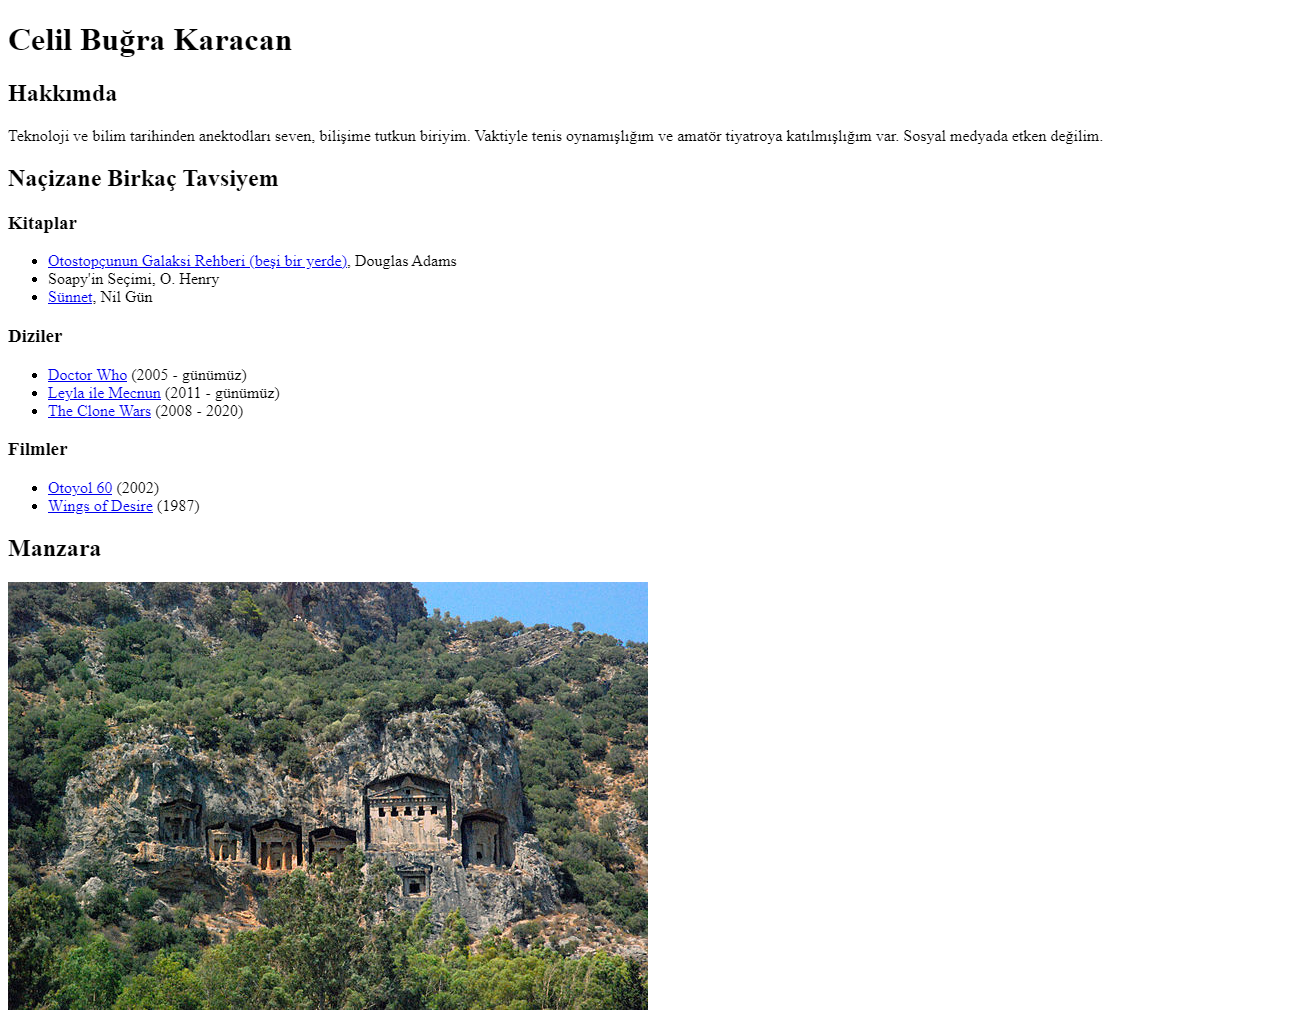
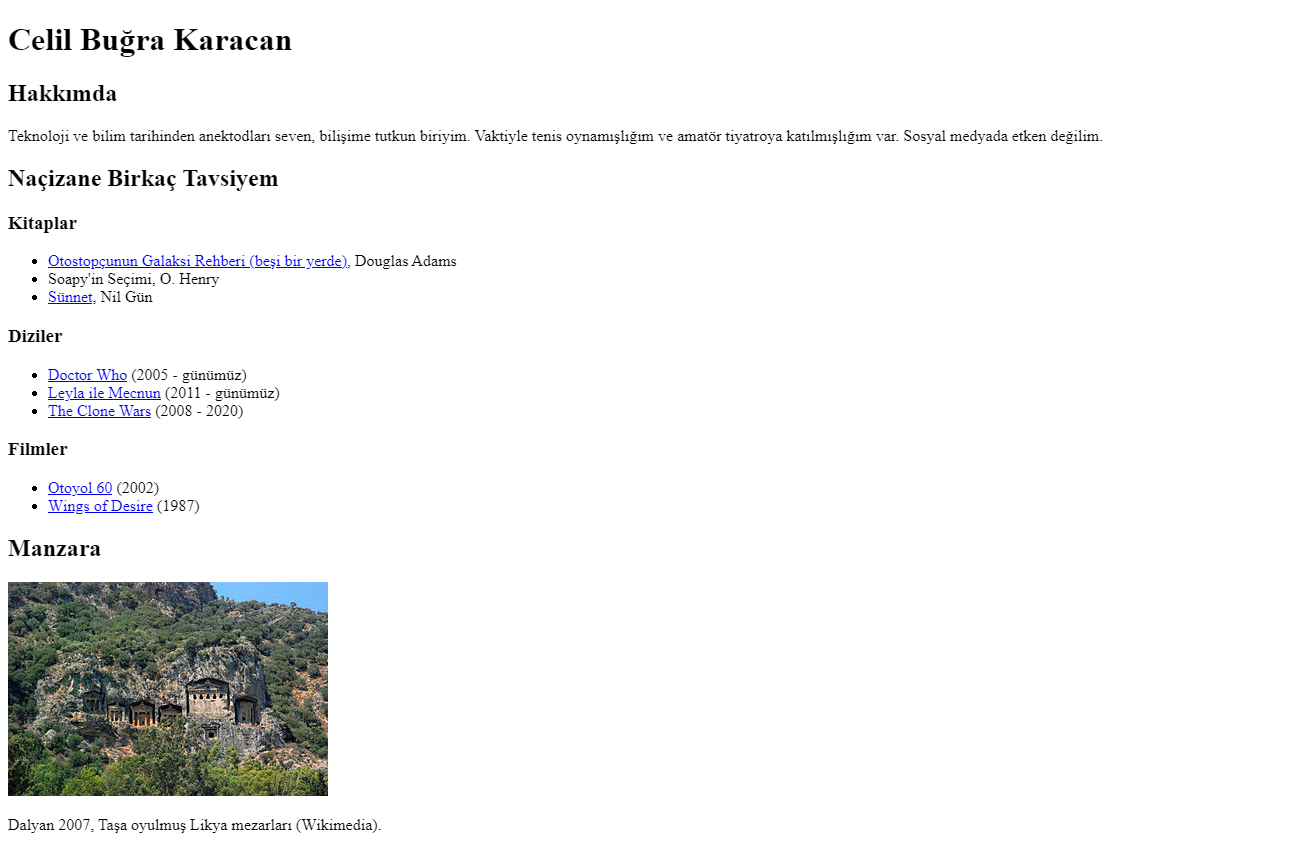
Added missing image description and changed image resolution.

Changed region(s): [[0.0, 0.0306, 0.8425, 1.0]]

diff --git a/modules/html/homework_02/index.html b/modules/html/homework_02/index.html
@@ -56,7 +56,9 @@
 
         <!-- Scenery -->
         <h2>Manzara</h2>
-            <img src="https://upload.wikimedia.org/wikipedia/commons/thumb/2/21/Rock_tombs_%281091851058%29.jpg/640px-Rock_tombs_%281091851058%29.jpg" alt="Dalyan, Taşa oyulmuş Likya mezarları">
-
+            <div>
+                <img src="https://upload.wikimedia.org/wikipedia/commons/thumb/2/21/Rock_tombs_%281091851058%29.jpg/320px-Rock_tombs_%281091851058%29.jpg" alt="Lycian rock cut tombs of Dalyan">
+                <p>Dalyan 2007, Taşa oyulmuş Likya mezarları (Wikimedia).</p>
+            </div>
 </body>
 </html>
